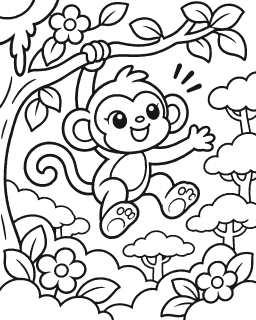
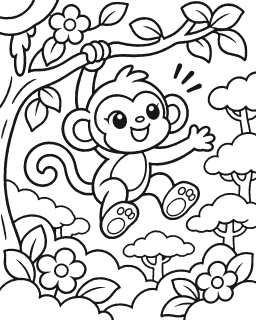
fix: corregir el musgo y los pies del mono en M08

diff --git a/docs/laminas/REGISTRO_CAMBIOS.md b/docs/laminas/REGISTRO_CAMBIOS.md
@@ -205,18 +205,12 @@ Todas las láminas se normalizan a 1600 px de lado mayor y se vectorizan; debajo
 - garras agrupadas con el extremo de la pata delantera
 - 17 zonas pequeñas agrupadas con su vecina
 
-## M08 · `m08-mono` (revisión 2)
+## M08 · `m08-mono` (revisión 3)
 
-- Original: `Imagen de ChatGPT 12 nov 2026, 19_45_05-6.webp` → `M08_mono.webp` (1122 × 1402 px), SHA-256 `46bc074d6da627b6…`
-- Lienzo: 1280 × 1600 (vertical); trazo 12.0 px; tinta que toca el marco: 3.7 %
-- huecos de trazo cerrados (307 px)
-- 1 contornos abiertos cerrados con tinta
-- 1 huecos diminutos absorbidos por la tinta
-- 3 brillos sobre tinta conservados como regiones propias
-- rama separada por la mano reunida con el tronco
-- oreja derecha agrupada con el pelo
-- flor superior separada del cielo
-- 35 zonas pequeñas agrupadas con su vecina
+- Fuente corregida: `tool/laminas/fuentes_corregidas/M08.png`, SHA-256 `66c3198629811ce1…`.
+- Se separó el musgo de la rama superior izquierda y se reconstruyeron los contornos de las plantas de ambos pies y sus almohadillas.
+- Las plantas tienen relleno independiente para utilizar con zoom. Las almohadillas de ambos pies comparten una región.
+- Las revisiones 1 y 2 se conservan para abrir los dibujos guardados.
 
 ## M09 · `m09-coati` (revisión 2)
 
